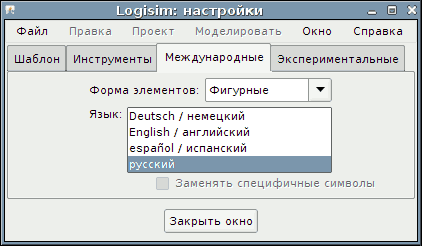
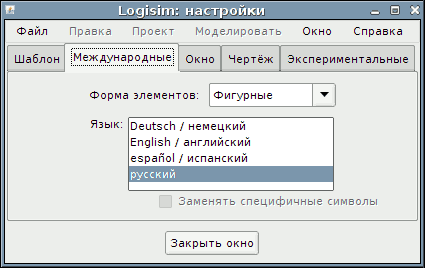
Ru doc: updated pages and screen shots for new preferences dialogs. Two old screen shots are deleted from En version too.

Changed region(s): [[0.0, 0.0, 1.0, 0.9959]]

diff --git a/doc/ru/html/guide/prefs/layout.html b/doc/ru/html/guide/prefs/layout.html
@@ -1,0 +1,37 @@
+<html>
+<head>
+    <meta http-equiv="content-type" content="text/html; charset=UTF-8">
+	<title>Вкладка Чертёж</title>
+</head>
+<body bgcolor="FFFFFF">
+
+<h1>Вкладка Чертёж</h1>
+
+<center><img src="../../../img-guide/prefs-layout.png"></center>
+
+<p>На этой вкладке находятся настройки, влияющие на поведение редактора чертежа схемы.</p>
+<ul>
+
+<li><p><b>Вид для печати:</b> определяет, показывать ли схемы на экране так же, как они выводятся через принтер. Как правило этот пункт отключен, и Logisim показывает схемы на экране с отображением текущего состояния схемы и выводит некоторые подсказки связанные с интерфейсом компонентов (самое заметное - он отрисовывает ножки элементов ИЛИ чтобы показать, где они должны присоединяться). А вид для печати не показывает состояние и эти подсказки по интерфейсу.</p></li> 
+ 
+<li><p><b>Показывать ореол:</b> определяет, нужно ли рисовать голубой овал вокруг компонента или инструмента, атрибуты которого в данный момент отображаются в таблице атрибутов.</p></li> 
+ 
+<li><p><b>Показывать подсказки для компонентов:</b> указывает, следует ли отображать "подсказки", которые будут появляться на время при наведении указателя мыши на компоненты, поддерживающие их. Например, если вы подержите указатель над контактом компонента подсхемы, то отобразится метка соответствующего контакта внутри подсхемы. Наведение курсора на один из концов разветвителя скажет вам, каким битам соответствует этот конец. Кроме того, все компоненты библиотек Плексоры, Арифметика и Память предоставляют информацию о своих входах и выходах через подсказки.</p></li> 
+
+<li><p><b>Сохранять соединения при перемещении:</b> указывает, должен ли Logisim добавлять новые провода, когда компоненты перемещены, чтобы сохранять их соединения. По умолчанию он включен - хотя он может быть временно отключен нажатием клавиши Shift при перемещении компонентов. Если этот флажок отключен, то по умолчанию при перемещении провода не будут добавляться - но вы можете включить это временно нажатием клавиши Shift при перемещении.</p></li>
+
+
+<li><p><b>Показывать призраки во время добавления:</b> когда включено, и когда выбран инструмент для добавления нового компонента, при движении мыши по холсту отрисовывается светло-серый контур компонента. Например, если вы выбираете инструмент Элемент И, и двигаете мышь по окну (без нажатия кнопки мыши), то серый контур элемента И отрисовывается там, где элемент И появится после нажатия мыши.</p></li>
+
+<li><p><b>После добавления компонента:</b> по умолчанию, после добавления каждого компонента, Logisim переключается на Инструмент Правка, позволяющий перемещать компоненты и добавлять провода. Этот выпадающий список позволяет вам изменить это поведение так, чтобы Logisim оставался на том же инструменте для добавления ещё одного такого же компонента, пока вы сами не выберите Инструмент Правка. (Это было поведение Logisim по умолчанию до Logisim 2.3.0. Хотя такое поведение более интуитивно, оно требует больше перемещений мыши для переключения между инструментами.)</p></li>
+
+<li><p><strong>Первое основание при взаимодействии с проводом:</strong> настраивает, как отображаются значения, когда на проводе щёлкнули Инструментом Нажатие. Щелчок на проводе временно отображает значение, пока пользователь не щёлкнет в другом месте схемы.</p></li>
+
+<li><p><strong>Второе основание при нажатии на провод:</strong> настраивает вторую часть отображаемого значения.</p></li>
+
+</ul>
+
+<p><strong>Далее:</strong> <em><a href="exp.html">Вкладка Экспериментальные</a></em>.</p>
+
+</body>
+</html>

diff --git a/doc/ru/html/guide/subcirc/using.html b/doc/ru/html/guide/subcirc/using.html
@@ -16,7 +16,7 @@
 <center><img src="../../../img-guide/subcirc-4-done.png"></center>
 <p>Наша схема для мультиплексора 4-в-1 использует три копии мультиплексора 2-в-1, каждая из которых отрисована в виде коробки с контактами вдоль краёв. Контакты на этой коробке соответствую входным и выходным контактам в схеме 2:1 MUX. Два контакта на западном крае коробки соответствуют двум контактам, направленным на восток в схеме 2:1 MUX; контакт на восточной стороне коробки соответствует контакту схемы 2:1 MUX, направленному на запад (который является выходным контактом); а контакт на южной стороне коробки соответствует контакту схемы 2:1 MUX, направленному на север. Порядок контактов на западной стороне коробки соответствует их порядку сверху вниз на чертеже подсхемы. (Если бы было несколько контактов на северной или южной стороне коробки, то их порядок соответствовал бы порядку слева направо в подсхеме.)</p>
 
-<p>Если контакты на чертеже подсхемы имеют метки, связанные с ними, то Logisim будет показывать эти метки в <strong>подсказке</strong> (то есть во временном текстовом поле), когда пользователь наведёт мышь на соответствующее место компонента подсхемы. (Если вы находите эти подсказки раздражающими, вы можете отключить их через <a href="../opts/canvas.html">вкладку Холст окна Параметры Проекта</a>.)</p>
+<p>Если контакты на чертеже подсхемы имеют метки, связанные с ними, то Logisim будет показывать эти метки в <strong>подсказке</strong> (то есть во временном текстовом поле), когда пользователь наведёт мышь на соответствующее место компонента подсхемы. (Если вы находите эти подсказки раздражающими, вы можете отключить их через <a href="../prefs/layout.html">вкладку Чертёж окна Настройки</a>.)</p>
 <center><img src="../../../img-guide/subcirc-4-tip.png"></center>
 <p>Некоторые другие компоненты тоже будут показывать эти подсказки: для некоторых контактов встроенных <a href="../../libs/mem/flipflops.html">триггеров</a>, например, проведение мышью над ними объясняет, что делает этот контакт.</p>
 

diff --git a/doc/ru/html/guide/prefs/window.html b/doc/ru/html/guide/prefs/window.html
@@ -1,0 +1,28 @@
+<html>
+<head>
+    <meta http-equiv="content-type" content="text/html; charset=UTF-8">
+	<title>Вкладка Окно</title>
+</head>
+<body bgcolor="FFFFFF">
+
+<h1>Вкладка Окно</h1>
+
+<center><img src="../../../img-guide/prefs-window.png"></center>
+
+<p>На этой вкладке находятся настройки, влияющие на внешний вид главного окна Logisim.</p>
+<ul>
+
+<li><p><b>Показать скорость тактов:</b> если выбрано, то когда такты включены, Logisim отображает скорость, с которой он выполняет такты. Скорость тактов измеряется как средняя за предыдущую 1000 тактов. (Выключение тактов или изменение максимальной тактовой частоты очистит эту историю.)</p>
+
+<p>Эта фактическая скорость тактов может быть намного меньше, чем вы бранная тактовая частота, потому что Logisim не может моделировать большие схем с очень большой скоростью. Например, максимальная скорость Logisim для достаточно большой схемы может быть 16 Гц; вы можете выбрать более высокую тактовую частоту, но фактическая скорость не будет превышать 16 Гц.</p></li>
+
+<li><p><b>Показать панель инструментов проекта:</b> когда выбрано, выше панели проводника доступна маленькая панель инструментов. Эта панель инструментов предоставляет пользователю простой доступ к добавлению, переименованию, переупорядочиванию и удалению схем из проекта, а также поддерживает переключение между редактированием чертежа схемы и её внешнего вида.</p></dd>
+
+</li><li><p><b>Расположение панели инструментов:</b> это выпадающее меню настраивает расположение панели инструментов в пределах окна. Панель инструментов может быть расположена вдоль любой из границ окна, обозначенных как север, юг, восток и запад. Она также может быть скрыта или расположена "посередине вниз" - то есть слева от холста, но справа от панели проводника и таблицы атрибутов.</p></li>
+
+</ul>
+
+<p><strong>Далее:</strong> <em><a href="layout.html">Вкладка Чертёж</a></em>.</p>
+
+</body>
+</html>

diff --git a/doc/ru/html/guide/menu/file.html b/doc/ru/html/guide/menu/file.html
@@ -15,6 +15,9 @@
 <dt><strong>Открыть...</strong></dt>
 <dd><p>Открывает существующий файл как проект в новом окне.</p></dd>
 
+<dt><strong>Открыть недавние</strong></dt>
+<dd><p>Открывает недавно открытый проект в новом окне без приглашения пользователя к навигации через диалог выбора файла.</p></dd>
+
 <dt><strong>Закрыть</strong></dt>
 <dd><p>Закрывает все окна, связанные с просматриваемым в данный момент проектом.</p></dd>
 
@@ -49,7 +52,7 @@
 
 <li><b>Масштабный коэффициент:</b> с помощью этого ползунка вы можете изменять масштаб изображений, в котором они сохраняются в файлы.</li>
 
-<li><b>Вид для печати:</b> следует ли использовать "<a href="../opts/canvas.html">вид для печати</a>" при экспорте схем.</li>
+<li><b>Вид для печати:</b> следует ли использовать "<a href="../prefs/layout.html">вид для печати</a>" при экспорте схем.</li>
 
 </ul>
 <p>После нажатия OK Logisim покажет диалоговое окно выбора файла. Если вы выбрали одну схему, выберите файл, в который изображение должно быть помещено. Если вы выбрали несколько схем, выберите директорию, куда файлы должны быть помещены; Logisim назовёт изображения, основываясь на названиях схем (<tt>main.png</tt> например).</p>
@@ -71,7 +74,7 @@
 
 <li><b>Повернуть для подгонки:</b> если установлено, то Logisim будет поворачивать каждую схему на 90 градусов, когда схема слишком велика, чтобы уместиться на странице, и её не нужно так же сильно масштабировать, когда она повёрнута на 90 градусов.</li>
 
-<li><b>Вид для печати:</b> следует ли использовать "<a href="../opts/canvas.html">вид для печати</a>" при печати схем.</li>
+<li><b>Вид для печати:</b> следует ли использовать "<a href="../prefs/layout.html">вид для печати</a>" при печати схем.</li>
 
 </ul>
 <p>После нажатия OK Logisim покажет диалоговое окно установок страницы до печати схем.</p>

diff --git a/doc/ru/html/guide/opts/index.html b/doc/ru/html/guide/opts/index.html
@@ -10,15 +10,15 @@
 <p>Logisim поддерживает две категории параметров конфигурации: <em>настройки приложения</em> и <em>параметры проекта</em>. Настройки приложения охватывают все открытые проекты, а параметры проекта специфичны для одного определённого проекта. В этом разделе рассматриваются параметры проекта; <a href="../prefs/">настройки приложения</a> описаны в другом разделе.</p>
 
 <p>Вы можете просматривать и редактировать параметры проекта через пункт Параметры... из меню Проект. Это вызовет окно Параметры с четырьмя вкладками.</p.
-><center><img src="../../../img-guide/opts-canvas.png"></center>
+><center><img src="../../../img-guide/opts-simulate.png"></center>
 <p>Мы будем обсуждать каждую из этих вкладок отдельно.</p>
 <blockquote>
-	<a href="canvas.html">Вкладка Холст</a> <br><a href="simulate.html">Вкладка Моделирование</a> <br><a href="toolbar.html">Вкладка Панель инструментов</a> <br><a href="mouse.html">Вкладка Мышь</a>
+	<a href="simulate.html">Вкладка Моделирование</a> <br><a href="toolbar.html">Вкладка Панель инструментов</a> <br><a href="mouse.html">Вкладка Мышь</a>
 </blockquote>
 
 <p>В нижней части окна есть кнопка Вернуть все к шаблону. При её нажатии все параметры и атрибуты инструментов заменяются на настройки из текущего шаблона (выбранного в <a href="../prefs/">настройках приложения</a>).</p>
 
-<p><strong>Далее:</strong> <a href="canvas.html">Вкладка Холст</a>.</p>
+<p><strong>Далее:</strong> <a href="simulate.html">Вкладка Моделирование</a>.</p>
 
 </body>
 </html>

diff --git a/doc/ru/html/guide/prefs/exp.html b/doc/ru/html/guide/prefs/exp.html
@@ -13,10 +13,6 @@
 
 <ul>
 
-<li><p><b>Показать скорость тактов:</b> если выбрано, то когда такты включены, Logisim отображает скорость, с которой он выполняет такты. Скорость тактов измеряется как средняя за предыдущую 1000 тактов. (Выключение тактов или изменение максимальной тактовой частоты очистит эту историю.)</p>
-
-<p>Эта фактическая скорость тактов может быть намного меньше, чем вы бранная тактовая частота, потому что Logisim не может моделировать большие схем с очень большой скоростью. Например, максимальная скорость Logisim для достаточно большой схемы может быть 16 Гц; вы можете выбрать более высокую тактовую частоту, но фактическая скорость не будет превышать 16 Гц.</p></li>
-
 <li><b>Ускорение графики:</b> один из пользователей Logisim отметил, что добавление <tt>-Dsun.java2d.d3d=True</tt> к командной строке кажется улучшает производительность графики Logisim, заставляя его использовать аппаратное ускорение графики. Этот выпадающий список пытается настроить Logisim так, чтобы эта возможность была включена; сообщения о том, влияет ли этот список на производительность, будут приветствоваться. Это не будет иметь никакого эффекта, пока Logisim не будет перезапущен.</p></li>
 
 </ul>

diff --git a/doc/ru/html/libs/base/wiring.html b/doc/ru/html/libs/base/wiring.html
@@ -50,7 +50,7 @@ href="../gates/controlled.html">Управляемый буфер</a>), Logisim 
 
 <p>Когда вы щёлкаете на существующем сегменте провода, используя Инструмент Нажатие, Logisim показывает текущее значение, передаваемое через этот провод. На практике такое поведение полезно для многобитных проводов, чёрный цвет которых не предоставляет никакой информации о том, какое значение передаёт провод.</p>
 
-<p>Для многобитных значений вы можете настроить, как отображается значение (в двоичном, десятичном или шестнадцатеричном виде, например), используя <a href="../../guide/opts/canvas.html">вкладку Холст</a> диалогового окна Параметры проекта.
+<p>Для многобитных значений вы можете настроить, как отображается значение (в двоичном, десятичном или шестнадцатеричном виде, например), используя <a href="../../guide/prefs/layout.html">вкладку Чертёж</a> диалогового окна Настройки Logisim.
 
 <p><a href="../index.html">Назад к <em>Справке по библиотеке</em></a></p>
 

diff --git a/doc/ru/html/guide/prefs/index.html b/doc/ru/html/guide/prefs/index.html
@@ -11,7 +11,7 @@
 
 <p>Вы можете просматривать и редактировать настройки приложения через пункт Настройки... из меню Файл (или из меню Logisim на Mac OS); появится окно с несколькими вкладками. Мы будем обсуждать эти вкладки по отдельности, а потом мы посмотрим, как настройки могут быть заданы с помощью командной строки.</p>
 <blockquote>
-	<a href="template.html">Вкладка Шаблон</a> <br><a href="tools.html">Вкладка Инструменты</a> <br><a href="intl.html">Вкладка Интернациональные</a> <br><a href="exp.html">Вкладка Экспериментальные</a> <br><a href="cmdline.html">Командная строка</a>
+	<a href="template.html">Вкладка Шаблон</a> <br><a href="intl.html">Вкладка Интернациональные</a> <br><a href="window.html">Вкладка Окно</a> <br><a href="layout.html">Вкладка Чертёж</a> <br><a href="exp.html">Вкладка Экспериментальные</a> <br><a href="cmdline.html">Командная строка</a>
 </blockquote>
 
 <p><strong>Далее:</strong> <a href="template.html">Вкладка Шаблон</a>.</p>

diff --git a/doc/ru/html/guide/menu/project.html b/doc/ru/html/guide/menu/project.html
@@ -56,9 +56,6 @@ href="../attrlib/explore.html">в другом месте <em>Руководст
 
 <p>Если вы используете схемы из загруженной библиотеки Logisim, то эти компоненты считаются <q>чёрными ящиками</q>: содержимое схем библиотеки не включается в количество уникальных и подсчитанных рекурсивно.</p></dd>
 
-<dt><strong>Показать панель инструментов проекта</strong></dt>
-<dd><p>Когда этот пункт меню выбран, небольшая панель будет отображена над панелью проводника, предоставляя пользователю простой доступ к добавлению, переименованию, переупорядочиванию и удалению схем из проекта. Панель инструментов также поддерживает переключение между редактированием чертежа схемы и её внешнего вида.</p></dd>
-
 <dt><strong>Параметры...</strong></dt>
 <dd><p>Открывает <a href="../opts/index.html">окно Параметры проекта</a>.</p></dd>
 

diff --git a/doc/ru/html/guide/opts/toolbar.html b/doc/ru/html/guide/opts/toolbar.html
@@ -22,8 +22,6 @@
 
 <li><p><strong>Удалить</strong> удаляет выбранный элемент с панели инструментов.</p></li>
 
-<li><p><strong>Расположение:</strong> настраивает расположение панели инструментов в пределах окна. Панель инструментов может быть расположена вдоль любой из границ окна, обозначенных как север, юг, восток и запад. Она также может быть скрыта или расположена "посередине вниз" - то есть слева от холста, но справа от панели проводника и таблицы атрибутов.</p></li>
-
 </ul>
 <p>Атрибуты, связанные с инструментами, не отображаются в этом окне, вместо этого вы можете просматривать и редактировать их в главном окне рисования программы.</p>
 

diff --git a/doc/ru/html/contents.html b/doc/ru/html/contents.html
@@ -60,14 +60,14 @@
   </ul></li>
   <li><a id="prefs">Настройки приложения</a><ul>
   	<li><a id="prefs_template">Вкладка Шаблон</a></li>
-  	<li><a id="prefs_tools">Вкладка Инструменты</a></li>
   	<li><a id="prefs_intl">Вкладка Интернациональные</a></li>
+  	<li><a id="prefs_window">Вкладка Окно</a></li>
+  	<li><a id="prefs_layout">Вкладка Чертёж</a></li>
   	<li><a id="prefs_exp">Вкладка Экспериментальные</a></li>
   	<li><a id="prefs_cmdline">Командная строка</a></li>
   </ul></li>
   <li><a id="opts">Параметры проекта</a>
-  	</li><li><a id="opts_canvas">Вкладка Холст</a></li>
-  	<li><a id="opts_simulate">Вкладка Моделирование</a></li>
+  	</li><li><a id="opts_simulate">Вкладка Моделирование</a></li>
   	<li><a id="opts_toolbar">Вкладка Панель инструментов</a></li>
   	<li><a id="opts_mouse">Вкладка Мышь</a></li>
   </ul></li>

diff --git a/doc/ru/html/guide/prefs/intl.html b/doc/ru/html/guide/prefs/intl.html
@@ -9,7 +9,7 @@
 
 <center><img src="../../../img-guide/prefs-intl.png"></center>
 
-<p>Эти настройки позволяют Logisim использоваться во многих странах. Вкладка включает три опции.</p>
+<p>Эта вкладка позволяет настроить Logisim в соответствии с региональными предпочтениями.</p>
 <ul>
 
 <li><p><b>Форма элементов:</b> Logisim поддерживает три стандарта для отрисовки логических элементов: <em>фигурные</em> элементы, <em>прямоугольные</em> элементы, и элементы <em>DIN 40700</em>. В следующей таблице приведены различия.</p>
@@ -49,7 +49,7 @@
 
 </ul>
 
-<p><strong>Далее:</strong> <em><a href="exp.html">Вкладка Экспериментальные</a></em>.</p>
+<p><strong>Далее:</strong> <em><a href="window.html">Вкладка Окно</a></em>.</p>
 
 </body>
 </html>
